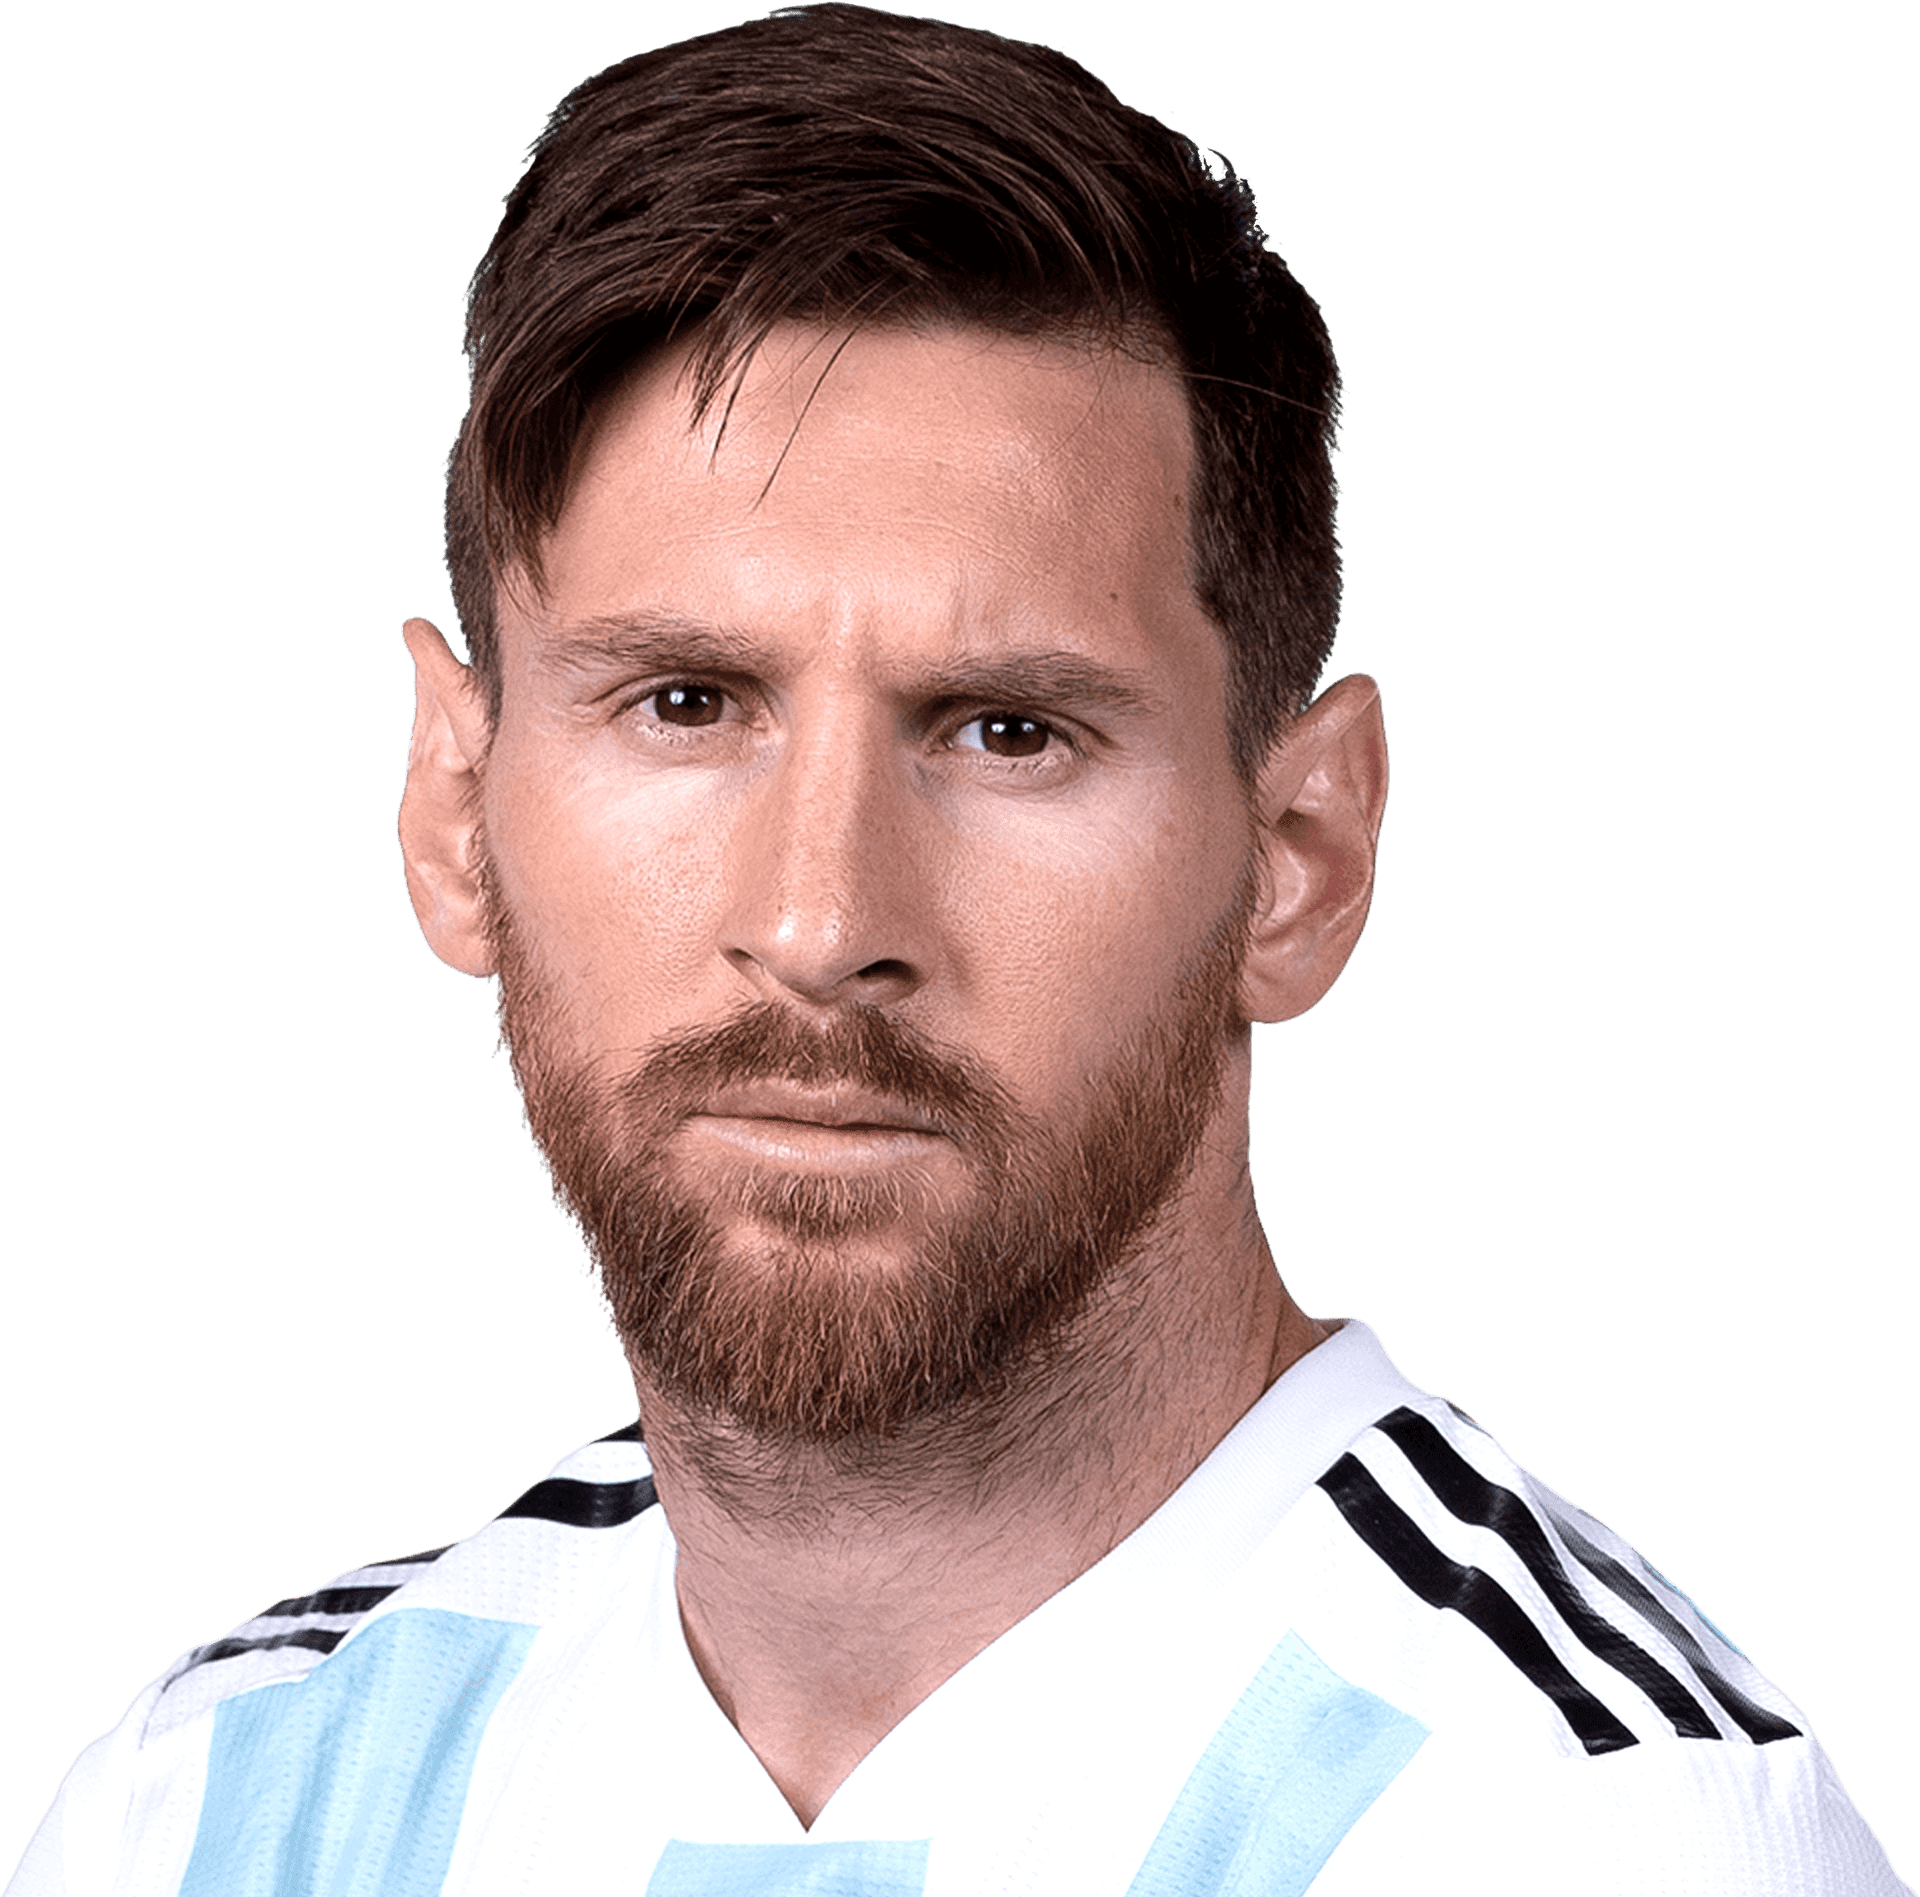
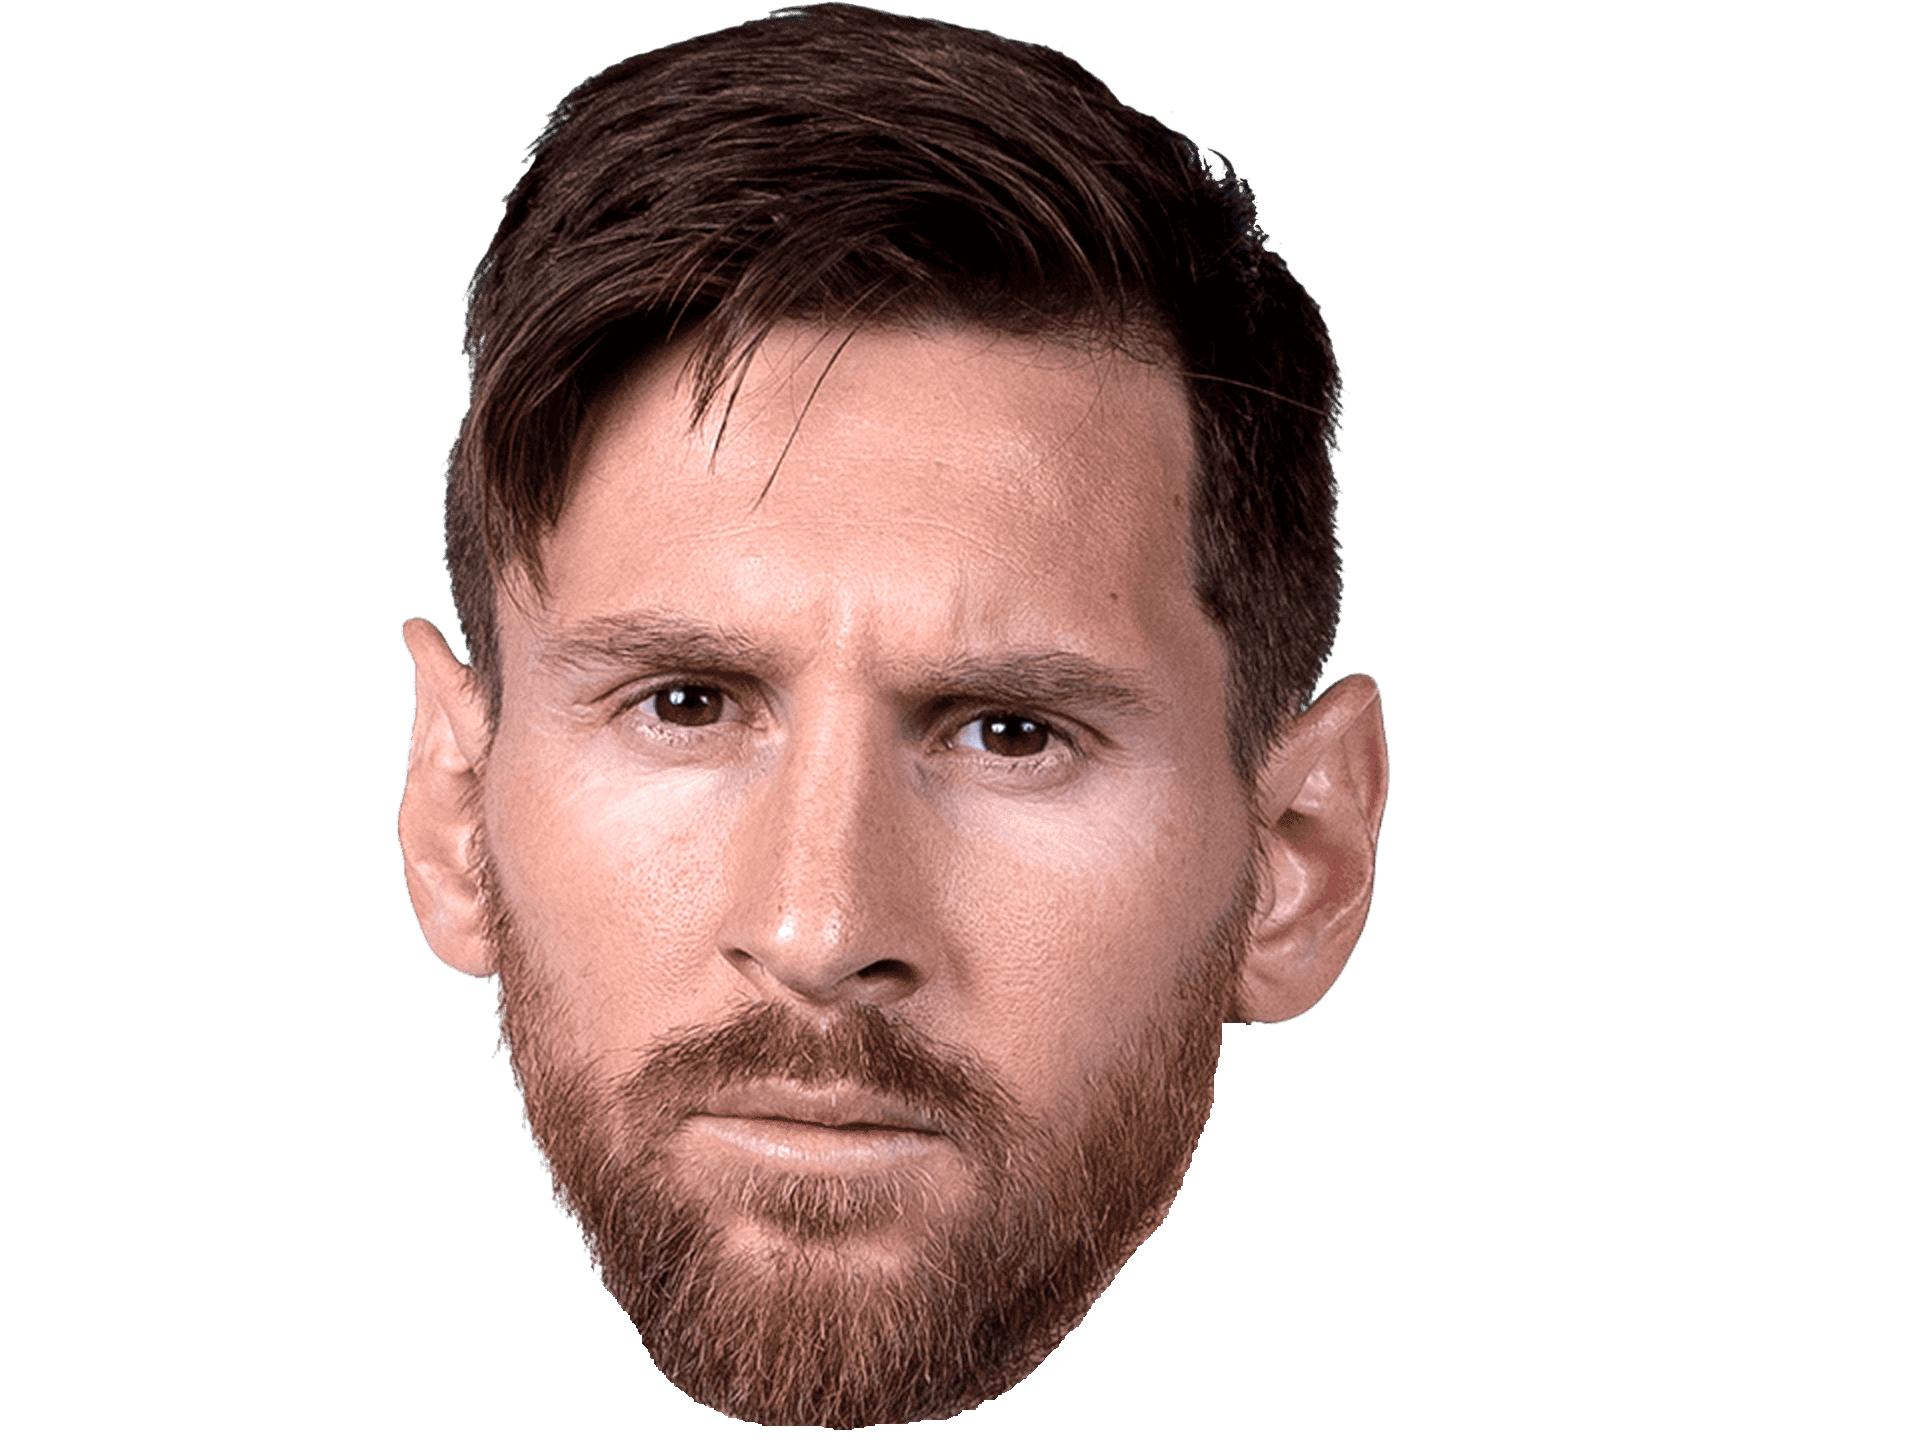
Première version complète v1

diff --git a/main.py b/main.py
@@ -12,14 +12,14 @@ def get_distance(p1, p2, w, h):
 def load_transformation_images():
     images = {}
     folder = "img_src"
-    files = {"messi": "messi.png", "saitama": "saitama.png", "vase": "vase.png"}
+    files = {"messi": "messi.png", "saitama": "saitama.png", "ballon": "ballon.png"}
     
-    # /!\ AJUSTE CES POINTS selon tes images (x, y en pixels dans le PNG source)
-    # Format: [Oeil Gauche, Oeil Droit, Menton]
+    # Format: [Oreille Gauche, Oreille Droite, Menton]
     refs = {
-        "messi": np.array([[693, 705], [1012, 742], [812, 1388]], dtype=np.float32),
-        "saitama": np.array([[779, 726], [1172, 753], [941, 1213]], dtype=np.float32),
-        "vase": np.array([[1620, 2006], [2455, 2006], [2008, 3157]], dtype=np.float32)
+        "messi": np.array([[1236, 867], [499, 836], [812, 1388]], dtype=np.float32),
+        "saitama": np.array([[1467, 904], [558, 904], [941, 1213]], dtype=np.float32),
+        # Pour le ballon, prends les deux bords du col et le pied
+        "ballon": np.array([[4120, 2525], [380, 2525], [2250, 4123]], dtype=np.float32)
     }
 
     for key, filename in files.items():
@@ -73,7 +73,7 @@ def main():
     seg_model = mp_selfie_seg.SelfieSegmentation(model_selection=0)
 
     assets = load_transformation_images()
-    choix_transfo = ["messi", "saitama", "vase"]
+    choix_transfo = ["messi", "saitama", "ballon"]
     transfo_idx = 1 # Saitama par défaut
     
     cap = cv2.VideoCapture(0)
@@ -105,11 +105,10 @@ def main():
             face_detected = True
             lm = mesh_res.multi_face_landmarks[0].landmark
             
-            # Points Warping (Oeil G: 130, Oeil D: 359, Menton: 152)
+            # Points stabilisés : Oreille G (234), Oreille D (454), Menton (152)
             pts = []
-            for i in [130, 359, 152]:# Oeil G, Oeil D, Menton
-                lm_point = mesh_res.multi_face_landmarks[0].landmark[i]
-                pts.append([lm_point.x * w, lm_point.y * h])
+            for i in [234, 454, 152]:
+                pts.append([lm[i].x * w, lm[i].y * h])
             dst_warping_points = np.array(pts, dtype=np.float32)
 
             # Zone Interaction
@@ -201,7 +200,7 @@ def main():
 
     # Nettoyage
     cap.release()
-    segment_model.close()
+    seg_model.close()
     hands.close()
     face_mesh.close()
     cap.release()
